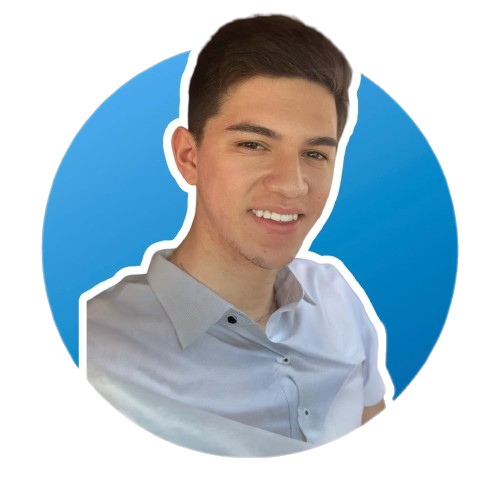
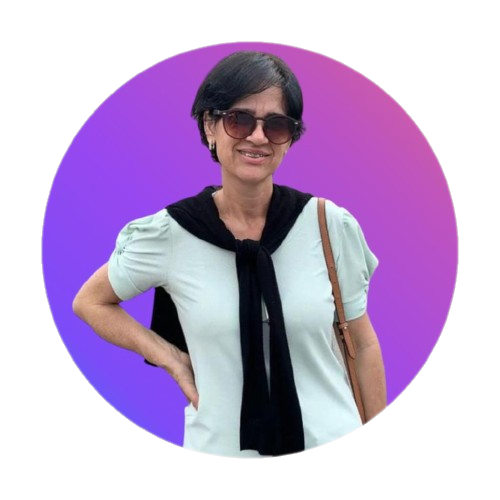
first commit

diff --git a/index.html b/index.html
@@ -17,8 +17,8 @@
   <body>
     <div id="container">
       <div id="profile">
-        <img src="./assets/avatar.png" alt="Foto de Perfil Eric" />
-        <p>@eric.boeno</p>
+        <img src="./assets/avatar.png" alt="Foto de Perfil Patricia Biscuit" />
+        <p>@patricia.biscuit</p>
         <p></p>
       </div>
 
@@ -29,41 +29,23 @@
 
       <ul>
         <li>
-          <a href="#">Inscreva - Se</a>
+          <a href="https://www.canva.com/design/DAFoLYsSoM0/3xX1XNLFcwfHCRKm26grFg/edit?utm_content=DAFoLYsSoM0&utm_campaign=designshare&utm_medium=link2&utm_source=sharebutton" target="_blank">Conheça meus produtos</a>
         </li>
         <li>
-          <a href="#">Acesse meu curso</a>
-        </li>
-        <li>
-          <a href="#">Cursos</a>
-        </li>
-        <li>
-          <a href="https://rocketseat.com.br/explorer" target="_blank"
-            >Sobre nós</a
-          >
+          
         </li>
       </ul>
       <div id="social-links">
-        <a href="https://github.com/ericgustavo05" target="_blank">
-          <ion-icon name="logo-github"></ion-icon>
         </a>
-        <a href="https://instagram.com/eric.boeno" target="_blank">
+        <a href="https://www.instagram.com/patricia.biscuit/" target="_blank">
           <ion-icon name="logo-instagram"></ion-icon>
         </a>
-        <a href="https://www.facebook.com/eric.boeno.9" target="_blank">
+        <a href="https://www.facebook.com/patricia.queiroz.58118" target="_blank">
           <ion-icon name="logo-facebook"></ion-icon>
         </a>
-        <a
-          href="https://www.linkedin.com/in/eric-gustavo-boeno-2ab359181/"
-          target="_blank"
-        >
-          <ion-icon name="logo-linkedin"></ion-icon>
         </a>
       </div>
-      <footer>
-        Feito com ♥ pela
-        <a href="https://rocketseat.com.br/" target="_blank">Rocketseat</a>
-      </footer>
+      <footer>Feito com ♥</footer>
     </div>
 
     <script

diff --git a/style.css b/style.css
@@ -79,11 +79,16 @@ body * {
   position: absolute;
   z-index: 1;
   transform: translateY(-10%);
+
+  animation: slide-back 0.2s;
 }
 
 .light #switch button {
-  right: 0;
-  left: initial;
+  animation: slide-in 0.4s forwards;
+}
+
+#switch button:hover {
+  outline: 8px solid var(--highlight-color);
 }
 
 #switch span {
@@ -172,5 +177,23 @@ footer {
 
   .light {
     --bg-url: url(./assets/bg-desktop-light.jpg);
+  }
+}
+
+/* animation */
+@keyframes slide-in {
+  from {
+    left: 0;
+  }
+  to {
+    left: 50%;
+  }
+}
+@keyframes slide-back {
+  from {
+    left: 50%;
+  }
+  to {
+    left: 0%;
   }
 }
